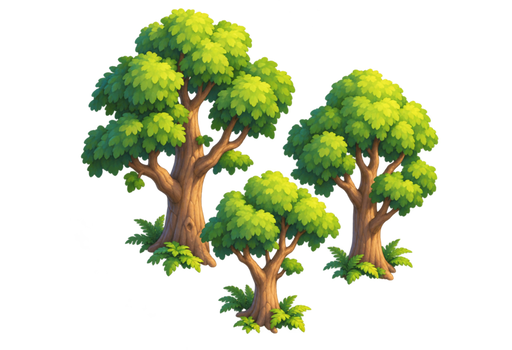
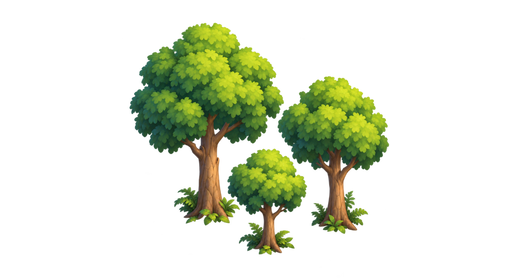
art(features): three woods, compact and lower, picked by cell
The trees were still too big and too busy. The shape was the cause: a
spreading crown of separate leafy arms is a dozen little silhouettes at
thumbnail size, however well each one is drawn. Each tree is now ONE straight
trunk carrying ONE closed round canopy, and the brief says so in those words;
the template's density section says the same thing generally, so everything
still to come inherits it. Scale drops 1.45 -> 1.05, so a stand sits just
over a plot tall instead of half again.

And a feature can now have more than one drawing. `variantKey` generalises
what the ground already did — the same hash, against however many files
exist — so `forest`, `forest_2` and `forest_3` mix across a wood and the
repeat stops being findable. Nothing declares the count; the renderer counts
the files, so a second drawing of anything starts being used the moment it
lands.

Also: `ingest.sh` ended in `[ "$tpl" = field ] && node check_field.mjs`,
which under `set -e` exits 1 for every asset that is NOT a field — which is
most of them. It is an `if` now.

diff --git a/src/render/terrain.ts b/src/render/terrain.ts
@@ -63,20 +63,53 @@ const SIDES = [
  * primes the spell motes scatter on — so the ground holds still between
  * frames and between sessions without anything being stored.
  */
-export function terrainVariant(cell: Coord): number {
+function hash(cell: Coord): number {
   const h = ((cell.x * 374761393) ^ (cell.y * 668265263)) >>> 0;
   // Mixed once more: the raw xor puts neighbours on adjacent values, which
   // a modulo turns straight back into a diagonal stripe.
-  return (Math.imul(h ^ (h >>> 15), 2246822519) >>> 0) % VARIANTS;
+  return Math.imul(h ^ (h >>> 15), 2246822519) >>> 0;
 }
 
-/** The sprite key for a cell's ground, falling back to the base drawing when
- *  the variant it drew has not been authored. */
+export function terrainVariant(cell: Coord): number {
+  return hash(cell) % VARIANTS;
+}
+
+/**
+ * How many drawings `stem` has: the base, plus `_2`, `_3` … while they exist.
+ *
+ * Counted from the art rather than declared anywhere, so a second drawing of
+ * anything starts being used the moment the file lands — which is the whole
+ * point of the filename being the contract. Memoised: the sprite table is
+ * fixed at build time, so the answer cannot change while the game is running.
+ */
+const counts = new Map<string, number>();
+function variantCount(stem: string): number {
+  const seen = counts.get(stem);
+  if (seen !== undefined) return seen;
+  let n = 1;
+  while (n < VARIANTS && spriteUrl(`${stem}_${n + 1}`) !== null) n++;
+  counts.set(stem, n);
+  return n;
+}
+
+/**
+ * WHICH DRAWING OF `stem` THIS CELL USES.
+ *
+ * The same hash the ground uses, against however many drawings exist. A wood
+ * needs this as much as a meadow does: one tree shape repeated across twenty
+ * cells is a wallpaper, and the eye finds the repeat before it finds the
+ * kingdom.
+ */
+export function variantKey(stem: string, cell: Coord): string {
+  const n = variantCount(stem);
+  if (n <= 1) return stem;
+  const v = hash(cell) % n;
+  return v === 0 ? stem : `${stem}_${v + 1}`;
+}
+
+/** The sprite key for a cell's ground. */
 export function terrainKey(terrain: TerrainId, cell: Coord): string {
-  const stem = `terrain_${terrain.toLowerCase()}`;
-  const v = terrainVariant(cell);
-  if (v === 0) return stem;
-  return spriteUrl(`${stem}_${v + 1}`) === null ? stem : `${stem}_${v + 1}`;
+  return variantKey(`terrain_${terrain.toLowerCase()}`, cell);
 }
 
 /**

diff --git a/src/render/mapRenderer.ts b/src/render/mapRenderer.ts
@@ -27,7 +27,7 @@ import { drawIcon, drawSprite, spriteAspect } from './sprites';
 import {
   diamondPath, drawGround, drawStanding, edgePath, fillDiamond, strokeDiamond,
 } from './iso';
-import { drawTerrainFringes, terrainKey } from './terrain';
+import { drawTerrainFringes, terrainKey, variantKey } from './terrain';
 import { drawCharacter, unitHeight } from './characters';
 import { animFor, castFor, villagerFor, type UnitPose } from './cast';
 import { ICON_EMOJI, type IconName } from '../ui/kit/icon';
@@ -492,9 +492,12 @@ export function drawMap(
       if (feature) {
         const def = FEATURES[feature];
         const exhausted = recoversAt(state, map, cell, now) !== null;
+        // A feature picks a drawing the way the ground does: twenty cells of
+        // one tree shape is a wallpaper, not a wood.
+        const stem = exhausted ? `${def.sprite}_exhausted` : def.sprite;
         later(cell, () => dimmed(dim, () => {
           punched(key, box, () => {
-            stand(box, [exhausted ? `${def.sprite}_exhausted` : def.sprite],
+            stand(box, [variantKey(stem, cell)],
               exhausted ? def.exhaustedGlyph : def.glyph, undefined, FEATURE_PLOTS);
           });
         }));

diff --git a/Docs/art/features/README.md b/Docs/art/features/README.md
@@ -40,6 +40,18 @@ a plot tall** (`UNIT_PLOTS`, src/render/characters.ts) and a 1×1 cottage about 
 of trees ~1.25. `norm_prop.sh` prints the drawn height in plots for exactly
 that comparison.
 
+## More than one drawing of the same thing
+
+A feature may have `_2` and `_3` beside it — `forest`, `forest_2`,
+`forest_3` — and a cell picks between them by a hash of its coordinates,
+exactly as the ground does (`variantKey`,
+[`src/render/terrain.ts`](../../../src/render/terrain.ts)). A wood needs it
+as much as a meadow does: one tree shape repeated across twenty cells is a
+wallpaper, and the eye finds the repeat before it finds the kingdom.
+
+Nothing declares how many there are. The renderer counts the files, so a
+second drawing of anything starts being used the moment it lands.
+
 ## The one asset that tiles
 
 A **field** breaks both of the rules above, so it has its own template
@@ -84,7 +96,9 @@ random**, and it does not matter, because the normaliser trims to the ink.
 
 | Asset | Scale | Drawn height | Notes |
 |---|---|---|---|
-| `forest` | 1.45 | 1.37 plots | three trees, not a thicket: trunks read, gaps let the ground through, and the crowns interleave across tile edges |
+| `forest` | 1.05 | 1.09 plots | three trees; one trunk, one compact round canopy each |
+| `forest_2` | 1.05 | 0.99 | two trees, one taller |
+| `forest_3` | 1.05 | 1.03 | three in a loose triangle, one set back |
 | `mountain` | 1.55 | 1.51 | six or seven broad facets; craggy on every side |
 | `mountain_iron` | 1.55 | 1.53 | two or three bold rust-red seams — few and large enough to read at thumbnail size |
 | `mountain_gold` | 1.55 | 1.54 | the same, in gold |
